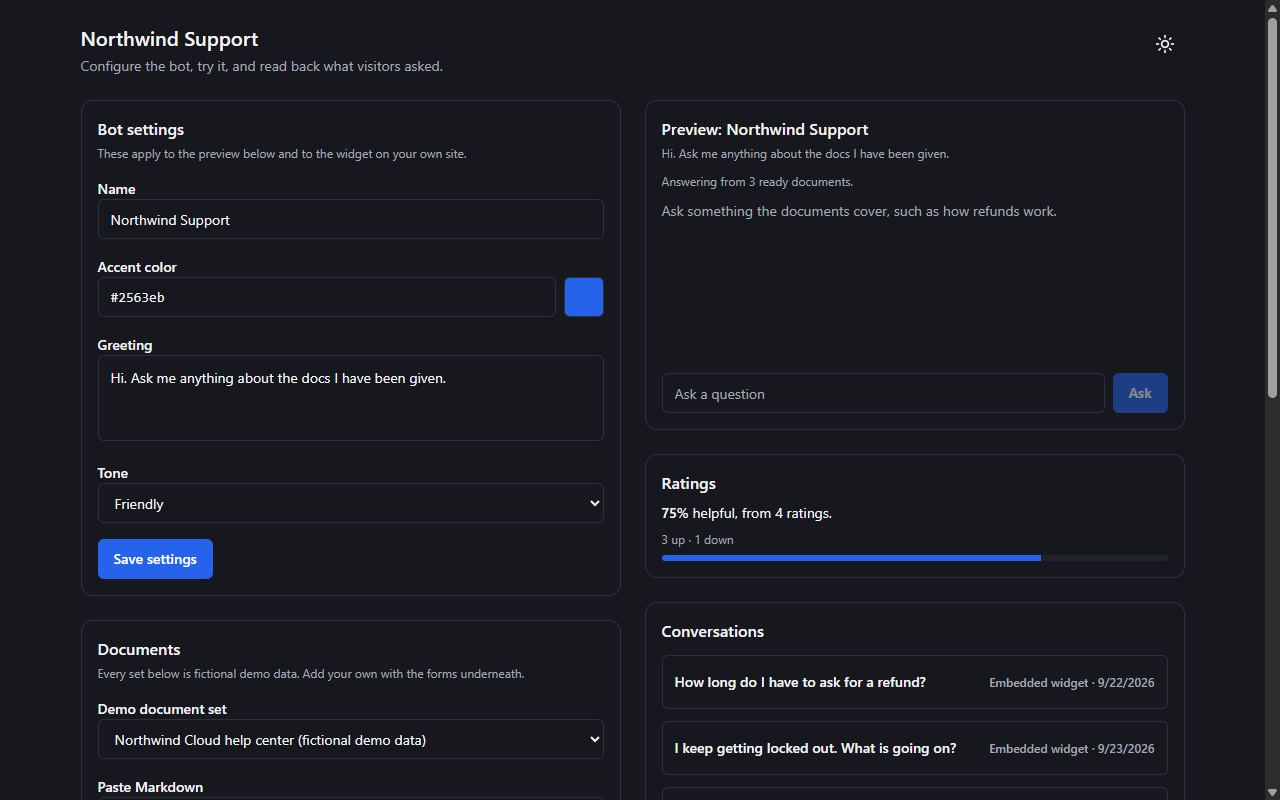
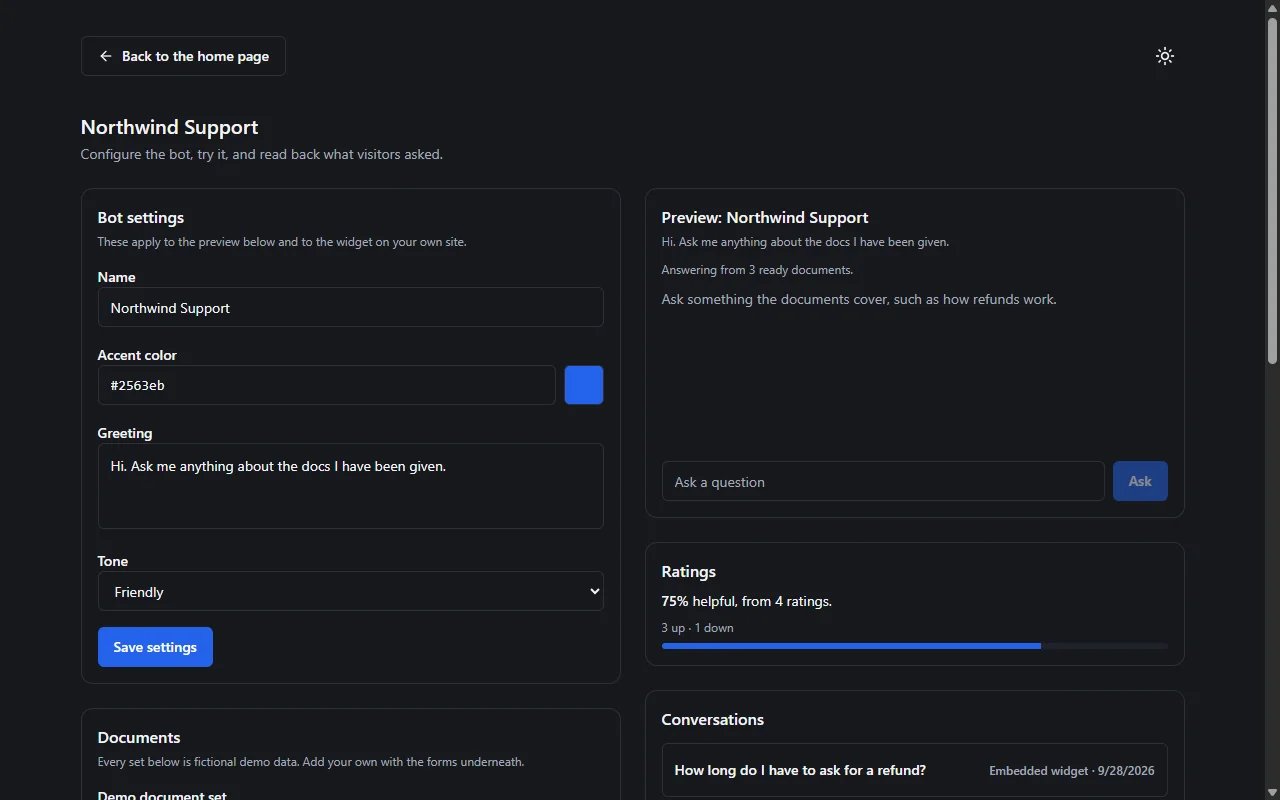
docs: retake the dashboard screenshots and record the embed fix
Retake both dashboard screenshots so they show the back link, record
the cross-origin embed test and its fix in the handoff, and drop the
retake from tasks.md.

diff --git a/handoff.md b/handoff.md
@@ -191,13 +191,13 @@ The dark tokens were written from the start and never applied. `prefix(acb)` in 
 
 The app starts on the landing page at `/`. Below the chat box it now has "How it works" (four steps from `STEPS` in `apps/landing/src/app.tsx`), "What you get" with two screenshots, and the existing RAG paragraph and dashboard link. The screenshots live in `apps/landing/public/screens/` as WebP, one light and one dark of each (`dashboard-*.webp` at 1280 by 800, `widget-*.webp` at 384 by 747), and CSS shows the one matching the toggle through the new `acb:dark:` variant, which `styles.css` keys on `data-acb-theme` rather than the system. A landing test fails if a referenced image file is missing. The README task can reuse the same files.
 
-They were taken from the live site with Playwright at 1280 by 800. The widget shot needed the panel's fixed height lifted in the page (`[role=dialog]` height auto, its scroll area overflow visible) so the whole answer and both sources fit, and the dark and light widget shots are the same answer with the toggle clicked between them, so only one live question was spent. Retake them after any visible UI change.
+They were taken from the live site with Playwright at 1280 by 800. The widget shot needed the panel's fixed height lifted in the page (`[role=dialog]` height auto, its scroll area overflow visible) so the whole answer and both sources fit, and the dark and light widget shots are the same answer with the toggle clicked between them, so only one live question was spent. Retake them after any visible UI change. No WebP encoder is installed on this machine (no Pillow, `cwebp` or ImageMagick), so the 2026-09-29 retake saved PNGs with Playwright, drew them onto a canvas in the browser and wrote `canvas.toDataURL('image/webp', 0.85)` back to disk. That came out near 38KB per dashboard shot, against about 90KB for the originals.
 
 ### Navigation and the lightbox, 2026-09-29
 
 The owner asked for three changes. The landing page now opens with a `Site` nav bar: the product name on the left, and `Open the dashboard` (a link styled as an outline button) beside the theme toggle on the right; the old link at the foot of the page stays. Each screenshot is a button that opens the same themed image full size in `Lightbox`, a new centered Radix dialog in `packages/ui/src/lightbox.tsx`, closed by Escape, a click outside or its close button. The dashboard has the same `Site` bar on every state (loading, failed, loaded) with `Back to the home page` linking `/` and the toggle. In development that link goes nowhere, because the dashboard is its own server on 5181; in production both share an origin. Tests cover each change. Deployed in `d44f35b`; CI passed and the live dashboard bundle carries the back link.
 
-The landing's dashboard screenshots predate the back link, so retake them (see "Landing content and screenshots") before the README task reuses them. The widget's bubble sits above the lightbox overlay, since the widget host uses a very high z-index; it looks odd but blocks nothing.
+~~The landing's dashboard screenshots predate the back link, so retake them (see "Landing content and screenshots") before the README task reuses them.~~ **Retaken 2026-09-29** from the live dashboard at 1280 by 800, light and dark, now showing the back link. The widget shots were left alone, since the nav never touches the widget. The widget's bubble sits above the lightbox overlay, since the widget host uses a very high z-index; it looks odd but blocks nothing.
 
 ### Footer, RAG label and About, 2026-09-29
 
@@ -211,7 +211,13 @@ The README's "Deploying" section is stale: it still describes one assembled `dis
 
 ### Sticky navigation, 2026-09-29
 
-The `Site` bar stays in view on scroll. `SiteNav` and the dashboard's `TopBar` are `sticky top-0` with a `bg-surface` background and `z-30`, which keeps them above the page and below the lightbox overlay (`z-40`) and dialog (`z-50`). `SiteNav` also gained a bottom border and `py-3` in place of `pt-4`, so page content scrolls under a clean edge. Checked on the landing page in development: 800px down, the bar sat at the top of the viewport. The dashboard was not checked in a browser, since its loaded state needs the API. The retaken screenshots will show the bordered bar.
+The `Site` bar stays in view on scroll. `SiteNav` and the dashboard's `TopBar` are `sticky top-0` with a `bg-surface` background and `z-30`, which keeps them above the page and below the lightbox overlay (`z-40`) and dialog (`z-50`). `SiteNav` also gained a bottom border and `py-3` in place of `pt-4`, so page content scrolls under a clean edge. Checked on the landing page in development: 800px down, the bar sat at the top of the viewport. The dashboard was not checked in a browser, since its loaded state needs the API. The retaken dashboard screenshots show the dashboard's bar, which has no border; the landing page has no screenshot of itself.
+
+### The embed on another origin, 2026-09-29
+
+The one-line script tag had never been tried on a page outside this project's own origin, and it was broken there. `mountFromScriptTag` in `apps/widget/src/embed.ts` defaulted the API base to `''`, so on a third-party page `/api/bot` and `/api/chat` went to that page's own server (404 and 501) and every answer failed, although the file's header comment already promised the script's origin. `apiBaseFor` now defaults to the origin that served `embed.js`, with `data-acb-api` still overriding it, and `embed.test.ts` covers both cases. Fixed in `3429fe8`.
+
+Checked live after the deploy: a static page served on `localhost:5199` with the unmodified tag from the dashboard loaded the bubble, fetched the bot from the live API across origins, and answered "How do refunds work?" with two cited sections. CORS on both routes already worked; only the default was wrong. `embed.js` is served with `max-age=300`, so a browser that loaded the old file keeps it for up to five minutes after a deploy; the retest used a cache-busted `src`.
 
 ### Working with the owner
 

diff --git a/tasks.md b/tasks.md
@@ -1,8 +1,7 @@
 # Remaining tasks
 
 - [ ] Set the Vercel project icon
-- [ ] Retake the landing screenshots with the new navigation
-- [ ] Add screenshots to the README
+- [ ] Add screenshots to the README and fix its Deploying section
 - [ ] Add the portfolio entry
 - [ ] Add the resumeProjects entry
 - [ ] Update the GitHub profile README
